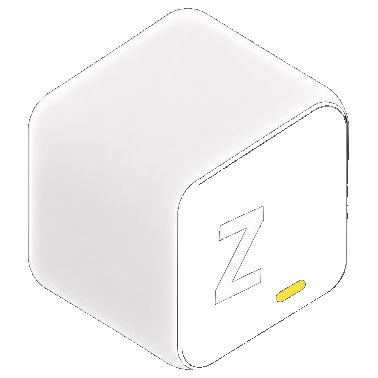
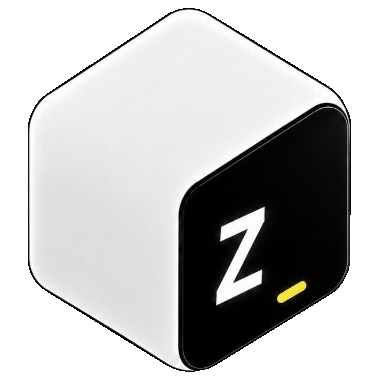
Use the official ZOOM cube on Farm yield, with a transparent background.
Keep the black Z-face from the source logo instead of punching it out as background, and render the same asset on the yield row as on the ZOOM badge.

diff --git a/artifacts/zoom-master/index.html b/artifacts/zoom-master/index.html
@@ -5,7 +5,7 @@
     <meta name="viewport" content="width=device-width, initial-scale=1.0, maximum-scale=1.0, user-scalable=no, viewport-fit=cover" />
     <title>ZOOM MASTER</title>
     <link rel="icon" type="image/svg+xml" href="/favicon.svg" />
-    <link rel="preload" as="image" href="/assets/zoom-cube-icon.png?v=4" />
+    <link rel="preload" as="image" href="/assets/zoom-cube-icon.png?v=5" />
     <link rel="preload" as="image" href="/assets/gram-diamond-icon.svg" />
     <!-- Non-blocking fonts — never delay first paint / JS boot -->
     <link rel="preconnect" href="https://fonts.googleapis.com" />
@@ -131,7 +131,7 @@
     <div id="splash-screen" role="status" aria-label="Season 3 loading">
         <div class="splash-inner">
         <div style="display:flex;align-items:center;justify-content:center;gap:18px;margin-bottom:8px">
-          <img src="/assets/zoom-cube-icon.png?v=4" width="52" height="52" alt="ZOOM" fetchpriority="high" decoding="sync" style="display:block;object-fit:contain" />
+          <img src="/assets/zoom-cube-icon.png?v=5" width="52" height="52" alt="ZOOM" fetchpriority="high" decoding="sync" style="display:block;object-fit:contain" />
           <img src="/assets/gram-diamond-icon.svg" width="52" height="52" alt="GRAM" fetchpriority="high" decoding="sync" style="display:block;object-fit:contain" />
         </div>
         <div class="splash-spinner" aria-hidden="true"></div>

diff --git a/artifacts/zoom-master/src/components/ZoomCubeIcon.tsx b/artifacts/zoom-master/src/components/ZoomCubeIcon.tsx
@@ -1,5 +1,5 @@
 /** ZOOM cube logo — transparent PNG, cropped like GramDiamondIcon. */
-const ZOOM_CUBE_SRC = "/assets/zoom-cube-icon.png?v=4";
+const ZOOM_CUBE_SRC = "/assets/zoom-cube-icon.png?v=5";
 
 interface ZoomCubeIconProps {
   size?: number;
@@ -17,6 +17,7 @@ export function ZoomCubeIcon({ size = 18 }: ZoomCubeIconProps) {
         height: size,
         flexShrink: 0,
         lineHeight: 0,
+        background: "transparent",
       }}
       aria-hidden
     >
@@ -32,6 +33,7 @@ export function ZoomCubeIcon({ size = 18 }: ZoomCubeIconProps) {
           height: size,
           objectFit: "contain",
           objectPosition: "center center",
+          background: "transparent",
         }}
       />
     </span>

diff --git a/artifacts/zoom-master/src/components/MarketPlanetCard.tsx b/artifacts/zoom-master/src/components/MarketPlanetCard.tsx
@@ -171,7 +171,7 @@ export function MarketPlanetCard({
         <h3 className="lab-market-card__title">{title}</h3>
         <div className="lab-market-card__meta">
           <span className="lab-market-card__yield">
-            {path === "zoom" && <ZoomCubeIcon size={11} />}
+            {path === "zoom" && <ZoomCubeIcon size={14} />}
             +{rate.toLocaleString(undefined, { maximumFractionDigits: 2 })} {theme.yieldUnit}
           </span>
           <span className="lab-market-card__price">{formatMarketListingPrice(listing.price, parseMarketPriceCurrency(listing.priceCurrency))}</span>

diff --git a/artifacts/zoom-master/src/components/FarmInventoryCard.tsx b/artifacts/zoom-master/src/components/FarmInventoryCard.tsx
@@ -142,7 +142,7 @@ export function FarmInventoryCard({
         <h3 className="lab-market-card__title">{title}</h3>
         <div className="lab-market-card__meta">
           <span className="lab-market-card__yield">
-            {path === "zoom" && <ZoomCubeIcon size={11} />}
+            {path === "zoom" && <ZoomCubeIcon size={14} />}
             +{formatYieldAmount(hourRate)} {theme.yieldUnit}
           </span>
           {showCycle && (

diff --git a/artifacts/zoom-master/src/index.css b/artifacts/zoom-master/src/index.css
@@ -2906,6 +2906,11 @@ body.animations-paused * {
   font-weight: 800;
   color: var(--mkt-accent);
 }
+.lab-market-card__yield .zoom-cube-icon,
+.lab-market-card__yield .zoom-cube-icon img {
+  background: transparent;
+  filter: none;
+}
 .lab-market-card__price {
   font-size: 11px;
   font-weight: 900;
